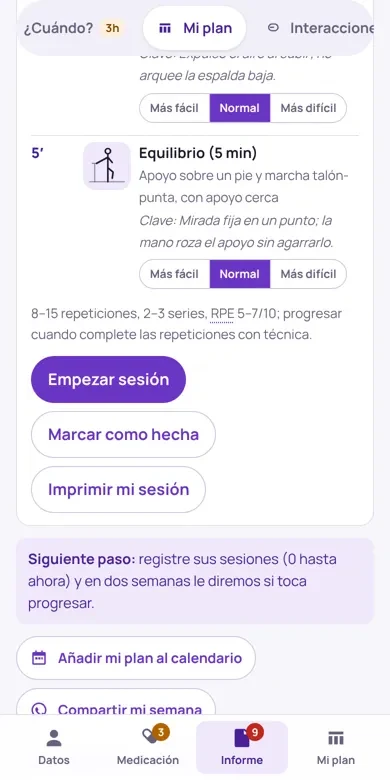
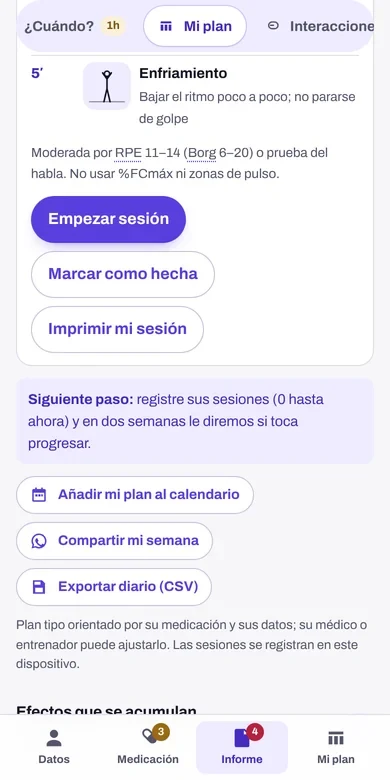
Pauta Activa en la web: capturas nuevas de la app con estilo FBE y notas en CLAUDE.md
Claude-Session: https://claude.ai/code/session_01Ru5yvGXfDuFuGUYrexRL2R

diff --git a/CLAUDE.md b/CLAUDE.md
@@ -67,3 +67,10 @@ rm sitio.py web-fbe-equipo.html sitio-inicio.html
 - `guia-mes-a-mes/` (landing de la guia «Un ano de fuerza: que cambia mes a mes», video del 27/12/2026): carpeta autocontenida, con cabecera negra y acentos morados, linea de tiempo de los cuatro tramos y sus propios `extra.css` y `extra.js`. Formulario insertado de MailerLite «Guía · Mes a mes (web)» (`data-form="sv6HEi"`), grupo «Atletas PL coaching». Debe redirigir a `guia-mes-a-mes/gracias.html`. No esta enlazada desde la pagina de Guias.
 - `guia-primeras-semanas/` (landing de la guia «Como empezar: las primeras 4 semanas», video del 3/1/2027): carpeta autocontenida, con cabecera blanca de papel cuadriculado y acentos morados, fichas de las cuatro semanas y sus propios `extra.css` y `extra.js`. Formulario insertado de MailerLite «Guía · Primeras semanas (web)» (`data-form="GdLzWU"`), grupo «Atletas PL coaching». Debe redirigir a `guia-primeras-semanas/gracias.html`. No esta enlazada desde la pagina de Guias.
 - Llevan `noindex` como el resto mientras la web este en pruebas; al pasar al dominio se quita de `index.html` y se deja en `gracias.html`.
+
+## Herramientas y Pauta Activa (21/11/2026)
+- `herramientas.html` (en el menú, entre Newsletter y Dudas, y en el pie «Recursos» en lugar de la calculadora) con dos tarjetas: Pauta Activa y la calculadora de proteína. `pauta-activa.html` es subpágina (miga Inicio / Herramientas / Pauta Activa; `pagina(..., padre=('herramientas.html', 'Herramientas'))`), en el sitemap pero no en el menú.
+- Textos de Pauta Activa: los de su presentación (`app/presentacion.html` del repo medicacion-y-ejercicio), pasados a tú; cifras de esa misma página (392 principios activos, 112 grupos, 714 reglas, 209 interacciones, 25 casos, 5 idiomas): si cambian en la app, cambiarlas en `PA_CIF` de interior.py. `PA` (sitio-cab.py) = https://medicacionyejercicio.fuerzabasadaenevidencia.com/.
+- Capturas reales de la app en `web-img/pa-consulta`, `pa-vistazo`, `pa-sesion` (copias de `app/assets/presentacion/*.webp`) y `pa-logo` (logo de la app). Si se rehacen las capturas de la app, volver a copiarlas.
+- Con siete apartados en el menú, el nombre largo del logo se oculta por debajo de 1400 px (futuro.css, final).
+- La app Pauta Activa es otro repo (pelayoplcoaching/medicacion-y-ejercicio, GitHub Pages desde `main`, carpeta `app/`). Su estilo FBE está en la rama `estilo-fbe` (capa al final de `app/css/style.css`); se publica fusionando en `main`, solo con el visto bueno de Pelayo. Tras cualquier cambio de HTML/CSS/JS en la app: `python3 scripts/bump_version.py`, `node scripts/test.mjs` y `node scripts/ui_test.mjs`.
